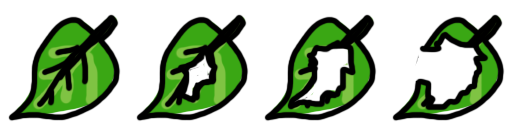
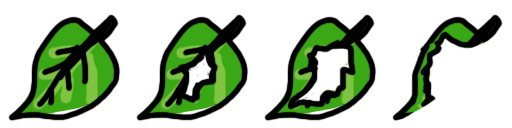
나뭇잎 레이어 추가

Changed region(s): [[0.7812, 0.3125, 1.0, 0.9688]]

diff --git a/Assets/Scripts/Player/PlayerBody.cs b/Assets/Scripts/Player/PlayerBody.cs
@@ -27,7 +27,7 @@ public class PlayerBody : MonoBehaviour
     [BoxGroup("Eat Settings")]
     [LabelText("먹기 인식 오프셋")] public Vector2 eatOffset = new Vector2(0.5f, 0f);
     [BoxGroup("Eat Settings")]
-    [LabelText("파괴에 필요한 타격수")] public int hitsToDestroy = 3;
+    [LabelText("파괴(성장)에 필요한 타격수")] public int hitsToDestroy = 3;
 
     private Rigidbody2D headRb;
     private Rigidbody2D tailRb;
@@ -48,7 +48,7 @@ public class PlayerBody : MonoBehaviour
         headRb.MoveRotation(Mathf.LerpAngle(headRb.rotation, targetAngle, Time.deltaTime * headRotationSpeed));
     }
 
-    // 전방의 나뭇잎을 체크하고 먹기 로직 실행
+    // 전방의 나뭇잎(StageLeaf)을 체크하고 타격 횟수에 따라 이미지를 갱신하거나 성장을 실행함
     public void CheckForFood(System.Action onEatSuccess)
     {
         Vector2 checkPos = (Vector2)headRb.transform.position + (Vector2)(headRb.transform.right * eatOffset.x);
@@ -58,15 +58,21 @@ public class PlayerBody : MonoBehaviour
         {
             if (hit.CompareTag("Leaf"))
             {
-                GameObject leaf = hit.gameObject;
-                if (!leafHitCounts.ContainsKey(leaf)) leafHitCounts.Add(leaf, 0);
+                GameObject leafObj = hit.gameObject;
+                StageLeaf stageLeaf = leafObj.GetComponent<StageLeaf>();
+                
+                if (stageLeaf == null) continue;
 
-                leafHitCounts[leaf]++;
+                if (!leafHitCounts.ContainsKey(leafObj)) leafHitCounts.Add(leafObj, 0);
 
-                if (leafHitCounts[leaf] >= hitsToDestroy)
+                // 나뭇잎 타격 횟수 증가 및 단계별 이미지 업데이트 요청
+                leafHitCounts[leafObj]++;
+                stageLeaf.UpdateLeafVisual(leafHitCounts[leafObj]);
+
+                // 설정된 타격 횟수에 도달하면 데이터를 정리하고 성장 로직 호출
+                if (leafHitCounts[leafObj] >= hitsToDestroy)
                 {
-                    leafHitCounts.Remove(leaf);
-                    Destroy(leaf);
+                    leafHitCounts.Remove(leafObj);
                     onEatSuccess?.Invoke();
                 }
                 break; 
@@ -83,7 +89,7 @@ public class PlayerBody : MonoBehaviour
         }
     }
 
-    // 현재 몸통 마디 리스트 중 가장 마지막 마디를 꼬리로 지정하고 리지드바디 참조
+    // 현재 몸통 마디 리스트 중 가장 마지막 마디를 꼬리로 지정하고 리지드바디 참조를 갱신함
     public void UpdateTailReference()
     {
         if (bodyJoints.Count > 0)
@@ -94,7 +100,7 @@ public class PlayerBody : MonoBehaviour
         }
     }
 
-    // 리듬 상태에 따라 몸통 마디들을 순차적으로 굴절시켜 물결치는 움직임 생성
+    // 리듬 상태와 회전 방향에 따라 몸통 마디들을 순차적으로 굴절시켜 물결치는 움직임을 생성함
     public void RefreshBody(bool isSpeedMet)
     {
         if (bodyJoints.Count == 0) return;
@@ -134,7 +140,7 @@ public class PlayerBody : MonoBehaviour
         }
     }
 
-    // 하이어라키에서 오브젝트 선택 시 먹기 인식 범위를 빨간색 원으로 표시
+    // 하이어라키에서 오브젝트 선택 시 먹기 인식 범위를 빨간색 원으로 표시함
     private void OnDrawGizmosSelected()
     {
         if (headRb == null) headRb = GetComponentInChildren<Rigidbody2D>();

diff --git a/Assets/Scripts/Stage/StageLeaf.cs b/Assets/Scripts/Stage/StageLeaf.cs
@@ -1,0 +1,38 @@
+using UnityEngine;
+
+public class StageLeaf : MonoBehaviour
+{
+    [Header("Visual Settings")]
+    public SpriteRenderer leafB; // 애벌레 뒤에 위치하는 나뭇잎 레이어
+    public SpriteRenderer leafF; // 애벌레 앞을 덮는 나뭇잎 레이어 (구멍 뚫리는 효과)
+    public Sprite[] frontSprites; // 앞 레이어(LeafF)용 4단계 스프라이트 배열
+
+    private Collider2D leafCollider;
+
+    private void Awake()
+    {
+        leafCollider = GetComponent<Collider2D>();
+        
+        // 초기 상태: 앞 레이어 이미지를 온전한 첫 번째 스프라이트로 설정함
+        if (leafF != null && frontSprites.Length > 0)
+        {
+            leafF.sprite = frontSprites[0];
+        }
+    }
+
+    // 타격 횟수에 따라 앞 레이어(LeafF) 이미지를 교체하고 마지막 단계에서 콜라이더를 비활성화함
+    public void UpdateLeafVisual(int hitCount)
+    {
+        if (frontSprites == null || frontSprites.Length == 0 || leafF == null) return;
+
+        // 타격 횟수에 맞춰 앞 레이어의 뜯겨나간 이미지 적용
+        int spriteIndex = Mathf.Clamp(hitCount, 0, frontSprites.Length - 1);
+        leafF.sprite = frontSprites[spriteIndex];
+
+        // 마지막 단계 도달 시 물리 판정을 꺼서 통과 가능하게 함 (LeafB 이미지는 배경으로 남음)
+        if (spriteIndex == frontSprites.Length - 1)
+        {
+            if (leafCollider != null) leafCollider.enabled = false;
+        }
+    }
+}
